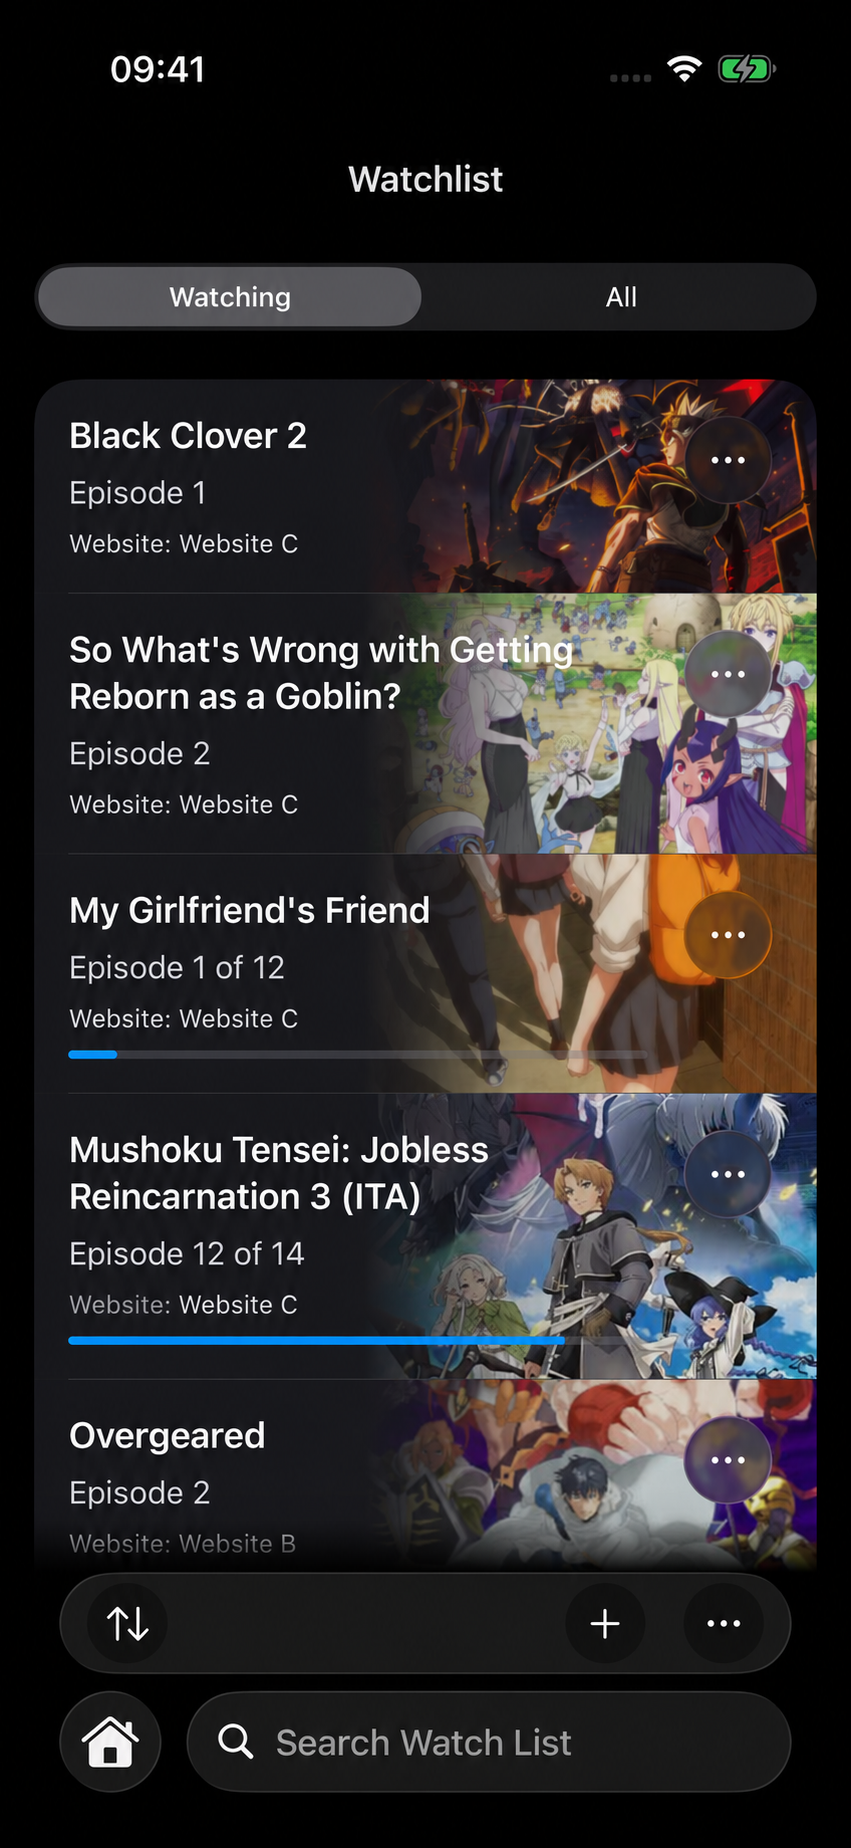
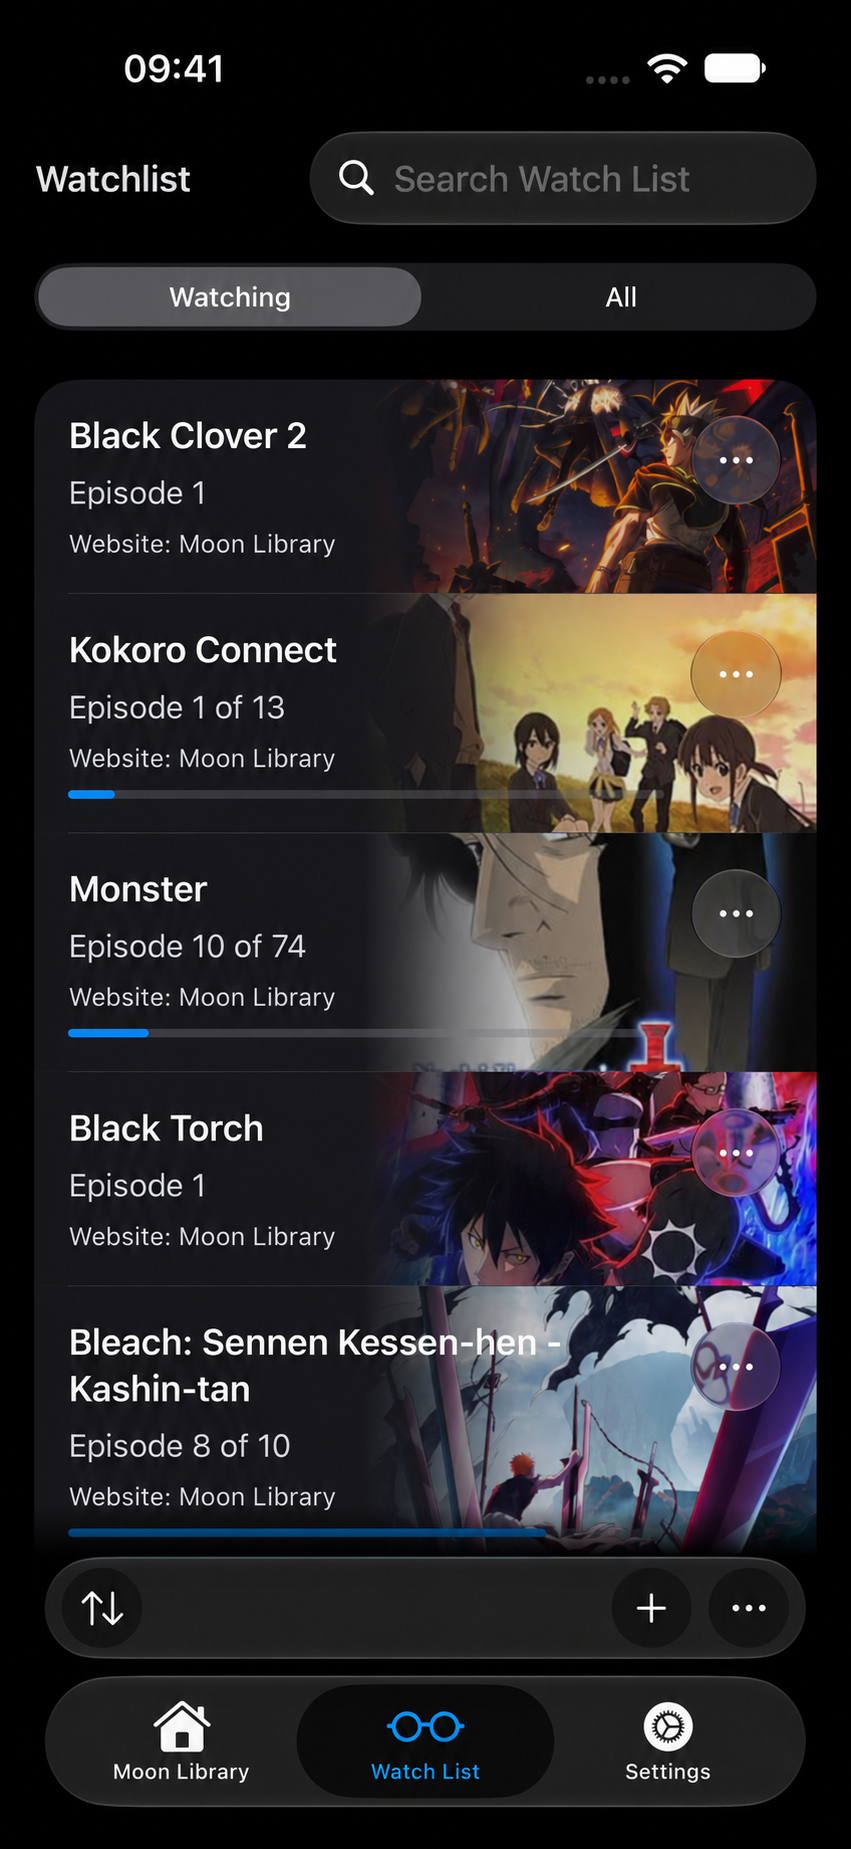
updated IOS Screenshot to IOS 27

diff --git a/README.md b/README.md
@@ -44,7 +44,7 @@ Ongoing series, partially released seasons, paginated episode lists, and unknown
 
 ### iOS
 
-The website screenshot was captured on an iPhone 18 Pro simulator running iOS 27.0. The other iOS screenshots were captured on an iPhone 17 Pro simulator running iOS 26.5. Website names and addresses have been anonymized in the images; they represent user-created configurations, not built-in providers. The website page is an original facsimile with fictional content and illustrative episode progress.
+Captured on an iPhone 18 Pro simulator running iOS 27.0, including the website chooser, guided setup, watch list, search, and Settings. Moon Library and Cloud Library are fictional website names representing user-created configurations, not built-in providers. Watch-list captures used the original website configurations so covers could load before website names and addresses were anonymized with ImageGen. The website screenshot shows an original facsimile with fictional content and illustrative episode progress.
 
 <p align="center">
   <img alt="Configured website chooser" src="assets/images/screenshots/ios/home.png" width="180" />
